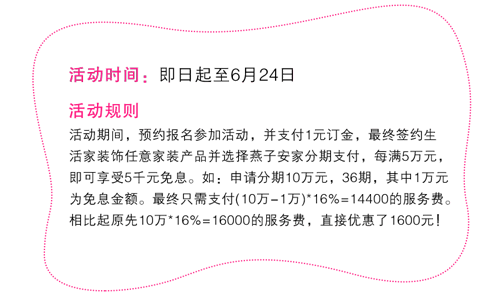
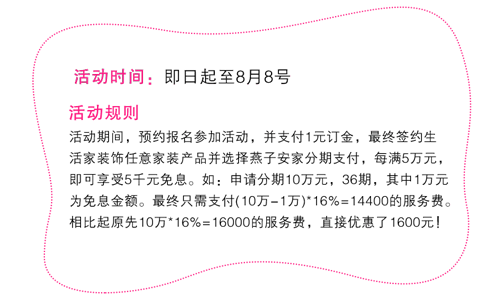
修改活动时间

diff --git a/anjia/carnival.html b/anjia/carnival.html
@@ -35,9 +35,9 @@
 	<div class="carnival div1">
 		<div class="content">
 			<div class="box1">
-				<p class="title1"><span class="m_color">活动时间：</span>即日起至6月24日</p>
+				<p class="title1"><span class="m_color">活动时间：</span>即日起至8月8日</p>
 				<p class="title2">活动规则</p>
-				<p class="text">6.18活动期间，预约报名参加活动，并支付1元订金，最终签约生活家装饰任意家装产品并选择燕子安家分期支付，每满5万元，即可享受5千元免息。如：申请分期10万元，36期，其中1万元为免息金额。最终只需支付(10万-1万)*16%=14400的服务费。相比起原先10万*16%=16000的服务费，直接优惠了1600元！</p>
+				<p class="text">活动期间，预约报名参加活动，并支付1元订金，最终签约生活家装饰任意家装产品并选择燕子安家分期支付，每满5万元，即可享受5千元免息。如：申请分期10万元，36期，其中1万元为免息金额。最终只需支付(10万-1万)*16%=14400的服务费。相比起原先10万*16%=16000的服务费，直接优惠了1600元！</p>
 			</div>
 			<div class="box2">
 				<ul class="ul">		
